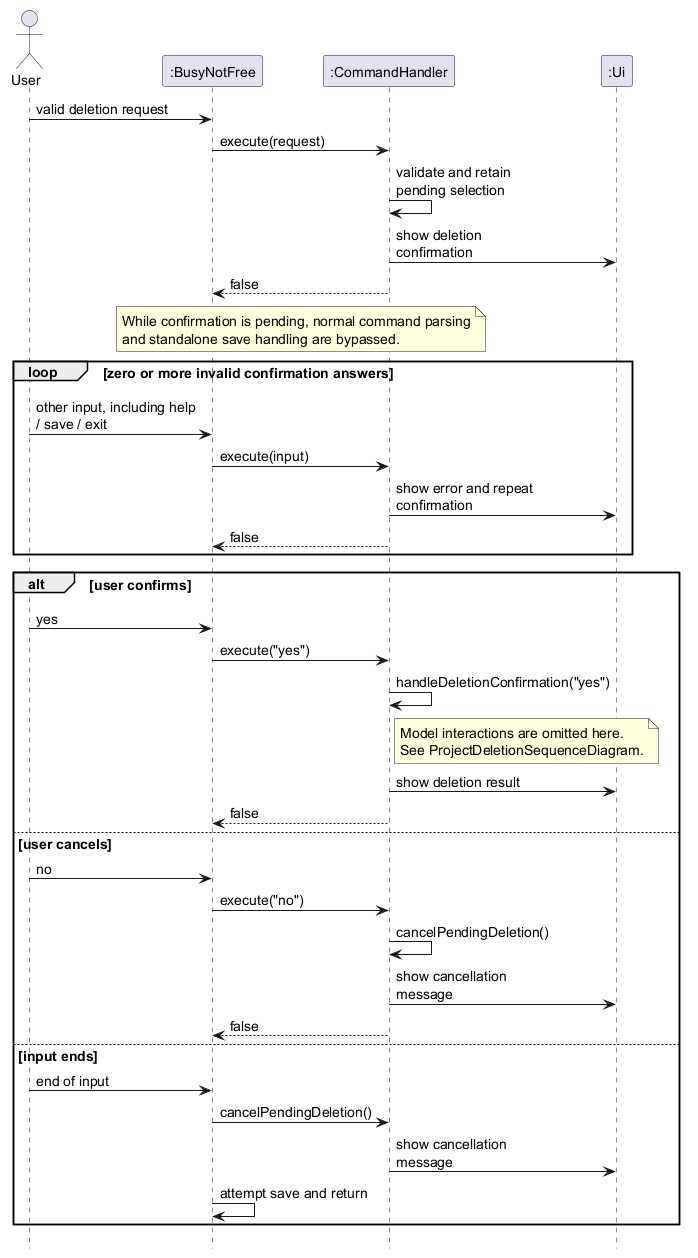
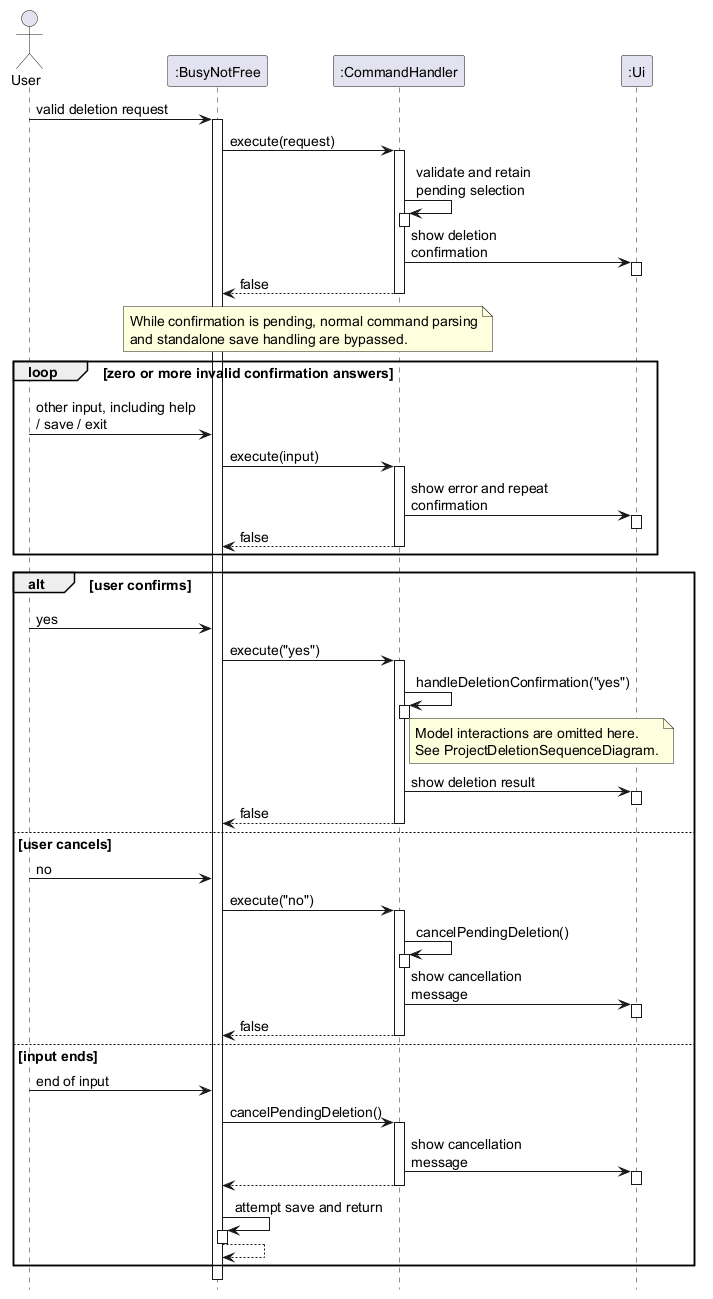
Combine project deletion with other deletions in DG and add activation boxes to sequence diagrams

diff --git a/docs/DeveloperGuide.md b/docs/DeveloperGuide.md
@@ -474,12 +474,22 @@ record while confirmation is pending.
 The lifecycle uses nullable pending fields for individual records and a boolean for
 trashcan emptying. The sequence diagram below
 shows how the application handles confirmation answers and end of input. Input reading
-is simplified; validation and model deletion details are shown in the project deletion
+is simplified; validation and model deletion details are shown in the deletion operations
 section. The single-threaded command loop allows only one pending deletion at a time.
 
 ![Sequence diagram of deletion confirmation](images/DeletionConfirmationSequenceDiagram.png)
 
-#### Project deletion
+#### Project, client, note, task and event deletion
+
+| Command | Validation and resulting model change |
+| --- | --- |
+| `project.delete PROJECT_ID` | Requires an existing project. Stores a snapshot with its tasks and events, clears the original activities and removes the active project. |
+| `client.delete CLIENT_ID` | Rejects clients with any active project, regardless of project status. Stores a client snapshot with its notes, clears the original notes and removes the active client. |
+| `client.delete_note CLIENT_ID index/NOTE_INDEX` | Validates the client and a positive, in-range integer index. Removes exactly that note after confirmation. |
+| `task.delete TASK_ID` | Finds the task across active projects and removes it from its owning project. Other tasks and events remain unchanged. |
+| `event.delete EVENT_ID` | Finds the event across active projects and removes it from its owning project. Other events and tasks remain unchanged. |
+
+All five commands follow the confirmation lifecycle above before changing model data.
 
 For `project.delete P001`, `handleProjectDelete` requires exactly one ID, looks up the
 project and requests confirmation. After `yes`, `ProjectManager#deleteProject` first
@@ -501,15 +511,6 @@ lookup self-calls and decorative separators are omitted. If snapshot validation 
 the manager does not reach the active-data removal steps.
 
 ![Sequence diagram of confirmed project deletion](images/ProjectDeletionSequenceDiagram.png)
-
-#### Client, note, task and event deletion
-
-| Command | Validation and resulting model change |
-| --- | --- |
-| `client.delete CLIENT_ID` | Rejects clients with any active project, regardless of project status. Stores a client snapshot with its notes, clears the original notes and removes the active client. |
-| `client.delete_note CLIENT_ID index/NOTE_INDEX` | Validates the client and a positive, in-range integer index. Removes exactly that note after confirmation. |
-| `task.delete TASK_ID` | Finds the task across active projects and removes it from its owning project. Other tasks and events remain unchanged. |
-| `event.delete EVENT_ID` | Finds the event across active projects and removes it from its owning project. Other events and tasks remain unchanged. |
 
 Client deletion rechecks project relationships when confirmation is accepted. A
 `ClientHasProjectsException` reports this business-rule failure without a usage hint,
@@ -730,7 +731,9 @@ and filled diamonds mark project-owned
 activities. Sequence participants use instance labels such as `:CommandHandler`;
 solid filled-arrow messages represent synchronous calls and dashed messages represent
 returns. `loop` and `alt` frames describe repetition and mutually exclusive paths.
-Optional activation bars and returns are omitted where they add no relevant information.
+Activation bars in the deletion and recovery sequence diagrams show when each participant
+is executing an operation; nested bars show self-calls. Returns are omitted where they
+add no relevant information.
 Removing a record from a collection is not shown with an object-destruction cross because
 other Java references can still exist; snapshots are separate objects.
 
